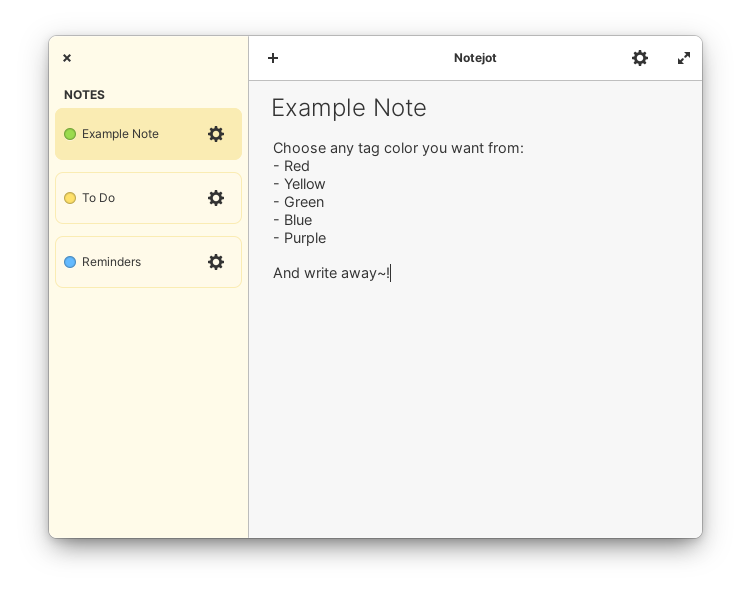
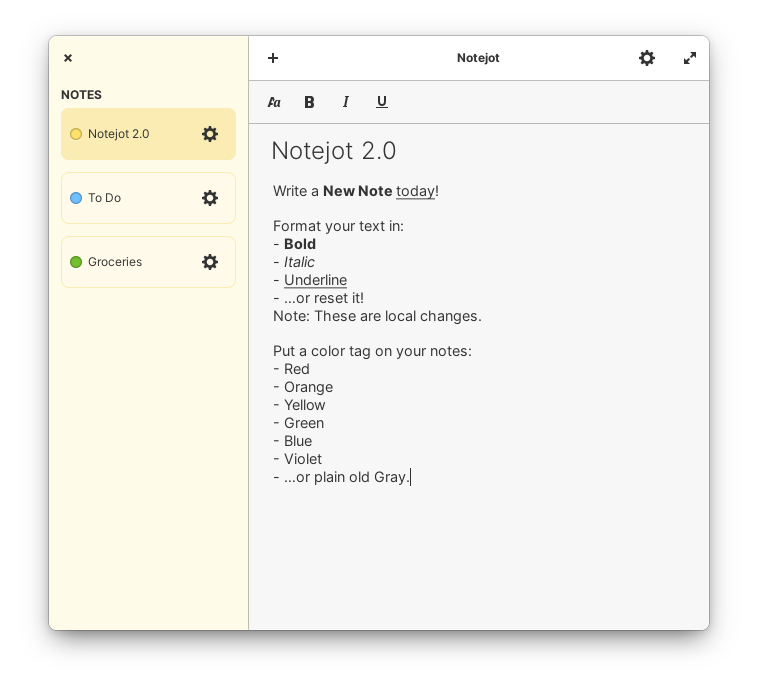
*

Changed region(s): [[0.0613, 0.03, 0.9188, 0.72], [0.0613, 0.87, 0.9494, 0.93]]

diff --git a/data/app.css b/data/app.css
@@ -79,8 +79,34 @@ window.unified decoration-overlay {
 	padding: 12px;
 }
 
+.notejot-tview text selection {
+    background: shade(mix (@accent_color, @base_color, 0.85), 0.88);
+    color: @fg_color;
+}
+
 .notejot-tview-dark {
   background: #151515;
+}
+
+.notejot-abar {
+  background-color: #F7F7F7;
+  padding: 6px 10px;
+  border-bottom: 1px solid alpha (black, 0.25);
+}
+
+.notejot-abar .image-button {
+  border-radius: 8px;
+  padding: 6px;
+}
+
+.notejot-abar .image-button:focus,
+.notejot-abar .image-button:hover {
+  background: shade(@base_color, 0.88);
+}
+
+.notejot-abar-dark {
+  background: #151515;
+  border-bottom: 1px solid alpha (white, 0.25);
 }
 
 .notejot-bar {
